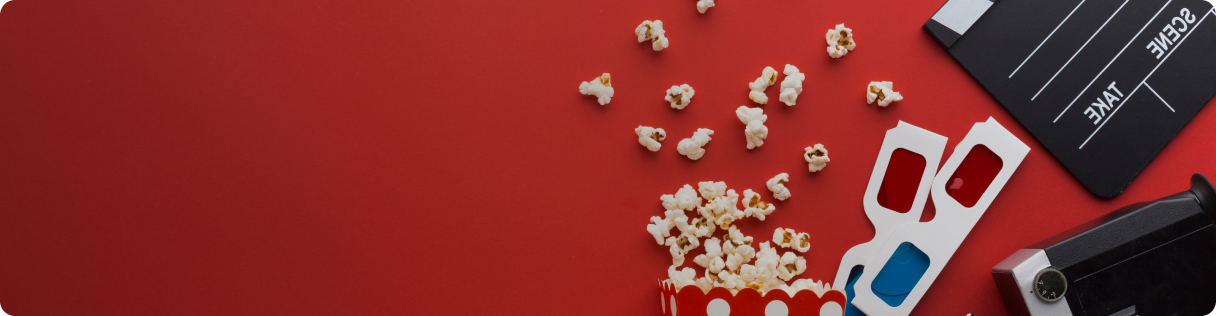
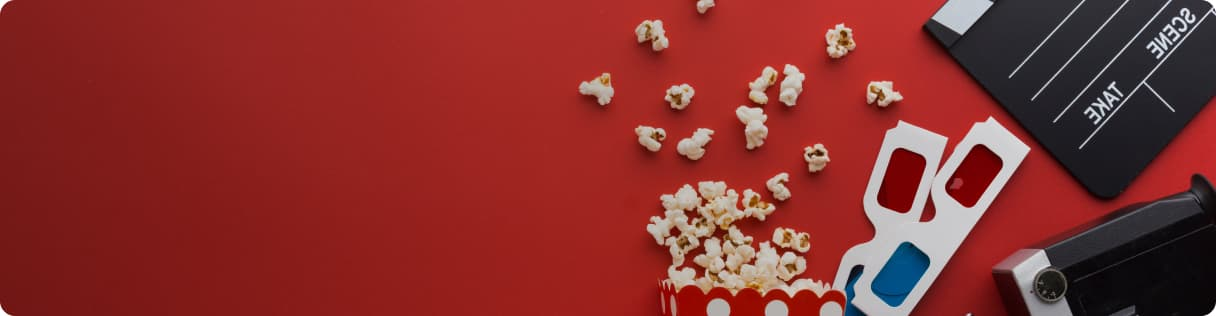
бекграунд хедера+оптимізував фото

diff --git a/src/sass/layout/_header.scss b/src/sass/layout/_header.scss
@@ -33,6 +33,12 @@
   background-size: cover; //треба?
   padding: 14px 14px 0px 14px;
 
+  @media screen and (min-device-pixel-ratio: 2),
+    (min-resolution: 192dpi),
+    (min-resolution: 2dppx) {
+    background-image: url('../images/bg-mobile@2x.jpg');
+  }
+
   @media screen and (min-width: 768px) {
     height: 222px;
     background-image: linear-gradient(
@@ -45,6 +51,12 @@
     padding: 16px;
     flex-direction: initial;
     margin: 32px;
+
+    @media screen and (min-device-pixel-ratio: 2),
+      (min-resolution: 192dpi),
+      (min-resolution: 2dppx) {
+      background-image: url('../images/bg-tablet@2x.jpg');
+    }
   }
 
   @media screen and (min-width: 1280px) {
@@ -57,6 +69,11 @@
       url('../images/bg-desktop.jpg');
     border-radius: 15px;
     padding: 16px 32px 0px 32px;
+    @media screen and (min-device-pixel-ratio: 2),
+      (min-resolution: 192dpi),
+      (min-resolution: 2dppx) {
+      background-image: url('../images/bg-tablet@2x.jpg');
+    }
   }
 }
 
